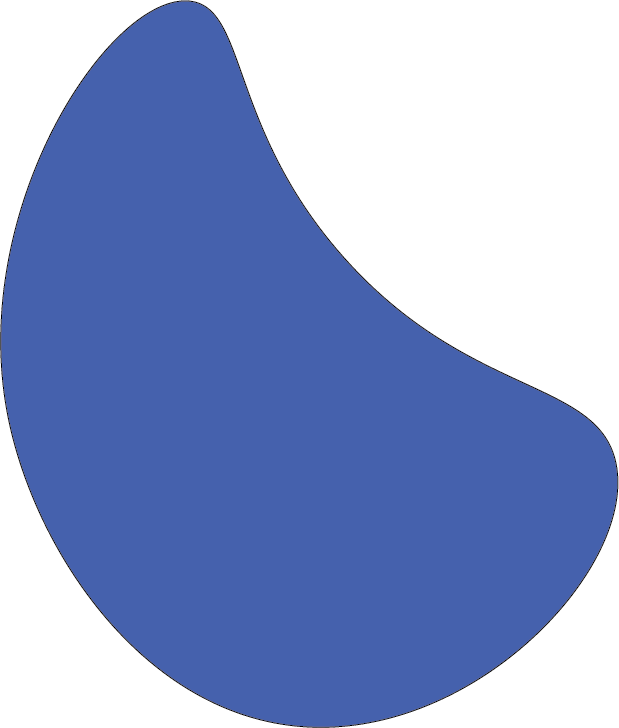
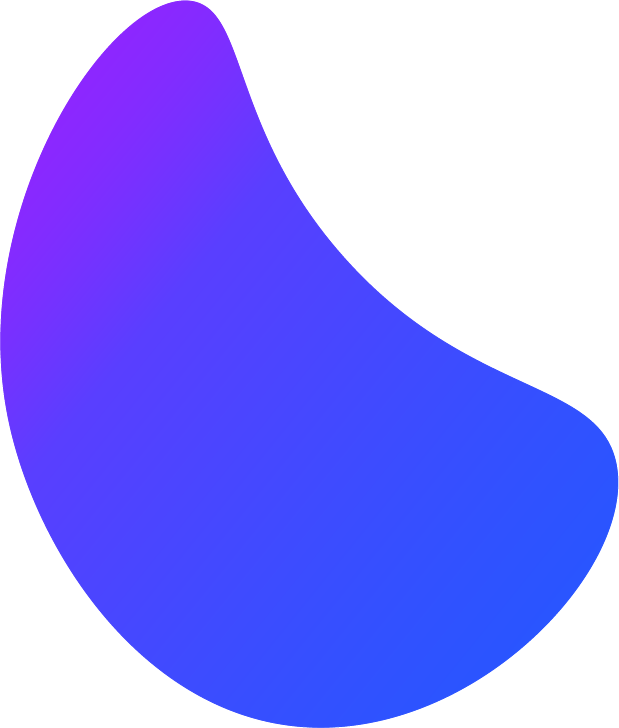
New version

diff --git a/index.htm b/index.htm
@@ -28,18 +28,16 @@
             <div class="contian">
                 <h4>Hello, my name is</h4>
                 <h1>Osman<span>Mostafa</span></h1>
-                <h3>I am <span>Web devoloper</span> </h3>
-                <a class="btn">CV</a>
+                <h3>I am <span>front-end devoloper</span> </h3>
                 <div class="Socials">
-                    <a href=""><img src="Source/X2.png"></a>
-                    <a href=""><img src="Source/Facebook2.png"></a>
+                    <a href="https://www.linkedin.com/in/osman-alnhrawy-%F0%9F%87%B5%F0%9F%87%B8-4938792a4/"><img src="https://th.bing.com/th?id=OIF.5C7O%2fd0ht%2bs18%2fpccj4Ycw&rs=1&pid=ImgDetMain"></a>
                     <a href="https://www.youtube.com/channel/UChCgjzf2hPN9wfzQd2KFgqA"><img src="Source/Youtube2.png"></a>
                     <a href=""><img src="Source/Insta2.png"></a>
                 </div>
             </div>
             <div class="Himage">
                 <img src="Source/BPhoto.png" alt="" class="Shape">
-                <img src="Source/Photo2.png" alt="" class="pic">
+                <img src="Source/Photo3.png" alt="" class="pic">
             </div>
         </div>
     </section>
@@ -52,7 +50,7 @@
         <div class="container">
             <h1>About <span>Me</span></h1>
             <h2>I'm <span>front-end</span> devoloper</h2><br>
-            <p>Osman Mostafa, a resident of Menuf, embodies a passionate and driven individual who embarked on his programming journey at the tender age of 11. Proficient in an array of languages and technologies, including Python, HTML, and CSS, Osman's quest for knowledge led him to delve into the realms of Javascript, game development, Photoshop, and 3D designs. His multifaceted expertise reflects a deep-rooted commitment to honing diverse skills, blending creativity with technical prowess. With an insatiable curiosity and a penchant for innovation, Osman continues to evolve as a versatile tech enthusiast, harnessing his talents across various domains to craft and bring ideas to life.</p>
+            <p>Osman Mostafa, a resident of Egypt, embodies a passionate and driven individual who embarked on his programming journey at the tender age of 11. Proficient in an array of languages and technologies, including Python, HTML, and CSS, Osman's quest for knowledge led him to delve into the realms of Javascript, game development, Photoshop, and 3D designs. His multifaceted expertise reflects a deep-rooted commitment to honing diverse skills, blending creativity with technical prowess. With an insatiable curiosity and a penchant for innovation, Osman continues to evolve as a versatile tech enthusiast, harnessing his talents across various domains to craft and bring ideas to life.</p>
         </div>
     </section>
     <!-- Service Section -->
@@ -80,7 +78,12 @@
     <section class="skills" id="skills">
         <div class="Scontainer">
         <h1>My <span>Skills</span></h1>
-            <div id="Scontainer"></div>
+            <div id="Scontainer">
+                <img src="Source/Skills/HTML.png" alt="">
+                <img src="Source/Skills/CSS.png" alt="">
+                <img src="Source/Skills/Blender.png" alt="">
+                <img src="Source/Skills/Python.png" alt="">
+            </div>
         </div>
         <div class="Simage">
             <img src="Source/Profile data-amico.png">

diff --git a/style.css b/style.css
@@ -1,10 +1,23 @@
 :root {
     --primaryColor: #2756ff;
     --secondaryColor: #c3d1ff;
+    --thirdColor: #8c27ff;
+    --forthcolor: #d9c3ff;
     --lightColor: #fff;
     --bgColor-1: #171a1c;
     --bgColor-2: #222828;
     --padding: 8%;
+}
+
+::-webkit-scrollbar{
+    width: 5px;
+}
+::-webkit-scrollbar-track{
+    background-color: var(--bgColor-1);
+}
+::-webkit-scrollbar-thumb{
+    border-radius: 15px 0 0 15px;
+    background-image: linear-gradient(var(--primaryColor), var(--thirdColor));
 }
 
 * {
@@ -22,6 +35,7 @@ body {
     font-size: 16px;
     color: var(--lightColor);
     overflow-x: hidden;
+    background-color: var(--bgColor-1);
 }
     
 .home {
@@ -38,6 +52,9 @@ body {
 
 span {
     color: var(--primaryColor);
+    background-image: linear-gradient(45deg, var(--primaryColor), var(--thirdColor));
+    -webkit-background-clip: text;
+    -webkit-text-fill-color: transparent;
 }
 
 nav h2 {
@@ -52,13 +69,19 @@ nav h2:hover{
 }
 
 nav {
-    background-color: var(--bgColor-2);
-    padding: 2.2rem var(--padding);
-    padding-bottom: 1rem;
+    background-color: #00000055;
+    backdrop-filter: blur(5px);
+    padding: 1rem var(--padding);
+    margin-top: 1rem;
+    width: 90%;
     display: flex;
     justify-content: space-between;
     align-items: center;
     z-index: 999;
+    border-radius: 100rem;
+    position: sticky;
+    top: 0.25rem;
+    left: 5%;
 }
 nav ul li {
     list-style-type: none;
@@ -76,8 +99,12 @@ nav ul li a:hover {
     color: var(--primaryColor);
     font-weight: bold;
     font-size: 1.25rem;
+    background-image: linear-gradient(45deg, var(--primaryColor), var(--thirdColor));
+    -webkit-background-clip: text;
+    -webkit-text-fill-color: transparent;
 }
 .btn{
+    background-image: linear-gradient(45deg, var(--primaryColor), var(--thirdColor));
     background-color: var(--primaryColor);
     color: var(--lightColor);
     border: 2px solid transparent;
@@ -86,14 +113,19 @@ nav ul li a:hover {
     padding: 1rem;
     border-radius: 39% 61% 70% 30% / 46% 70% 30% 54% ;
     transition: 0.5s;
+    box-shadow: 0 0 1rem var(--primaryColor);
 }
 .btn:hover{
-    background-color: transparent;
+    background: transparent;
     border: 2px solid var(--primaryColor);
-    box-shadow: 0 0 1rem var(--primaryColor);
+    box-shadow: 0 0 0;
 }
 nav .btn{
     padding: 1.35rem 0.75rem;
+}
+
+section {
+    border-radius: 50px;
 }
 
 .content{
@@ -130,6 +162,7 @@ h3{
 }
 
 .Socials img{
+    border-radius: 100px;
     width: 2.5rem;
     transition: 0.25s;
 }
@@ -230,6 +263,12 @@ h3{
     flex-direction: column;
     justify-content: space-around;
     align-items: center;
+    border-radius: 25px;
+    transition: 0.5s;
+}
+.services .ServiceContain div:hover{
+    box-shadow: inset 0 0 40px rgba(0,0,0,.6), 0 8px #171a1c;
+    transform: translate(0, -8px) scale(1.05);
 }
 .services .ServiceContain div img{
     width: 80%;
@@ -290,8 +329,13 @@ h3{
 }
 
 @media (max-width: 500px) {
-    .content{
+    .content, .about, .services, .skills{
         flex-direction: column;
+        width: 100vw;
+        height: 150vh;
+        padding: 0;
     }
-    
+    .Himage{
+        display: none;
+    }
 }
